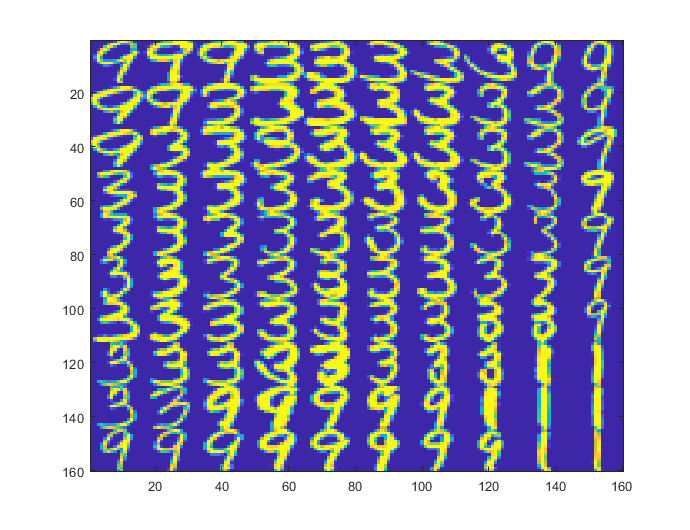
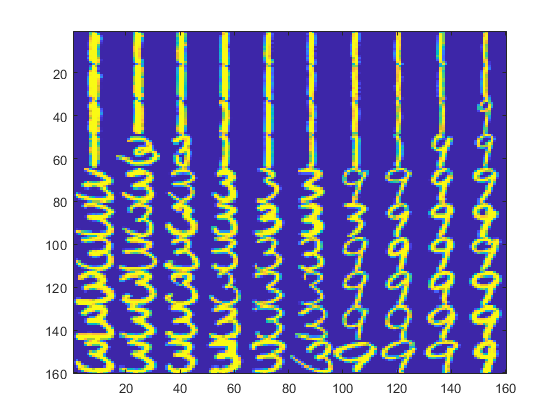
Fixed SOM.... -Prototype updating fixed!

diff --git a/Functions/SOM.m b/Functions/SOM.m
@@ -41,11 +41,10 @@ while(t<= Tmax)
     x = datasample(X,1,2);
     
     [~, bmu_I] = min(vecnorm(M - x));
-    bmu = M(:, bmu_I);
     
     %Update prototypes!
     c = getCoord(bmu_I,N);
-    diff = (x-bmu);
+    diff = (x-M);
     
     H = exp(-1/(2*gamma^2) * (vecnorm(c-C).^2));
     M = M + a * H .* diff;

diff --git a/CancerAnalysis.m b/CancerAnalysis.m
@@ -8,10 +8,10 @@ load WisconsinBreastCancerData_Unpacked.mat
 X = Data_WCD_Matrix;
 I = I_Label';
 benign = X(:,I==1);
-malginant = X(:,I==2);
+malignant = X(:,I==2);
 
 %SOM!
-k = 49;
+k = 100;
 N = k^(1/2);
 params = defaultParams(k,2);
 M = SOM(X, k, params);

diff --git a/DigitsAnalysis.m b/DigitsAnalysis.m
@@ -18,9 +18,9 @@ M = SOM(X, k, params);
 
 
 %Visualize protoypes by finding closest matches
-V = zeros(160,160);
-for i = 1:10
-    for j = 1:10
+V = zeros(16*N,16*N);
+for i = 1:N
+    for j = 1:N
         key = getKey(i,j,N);
         m = M(:, key);
         

diff --git a/Functions/defaultParams.m b/Functions/defaultParams.m
@@ -6,6 +6,6 @@ if(mod(N,1) >= 1e-14)
 end
 N = round(N);
     
-param = [500*k 0.9 0.01 N/3 0.5 1500];
+param = [750*k 0.9 0.01 N/3 0.5 1500];
 end
 
